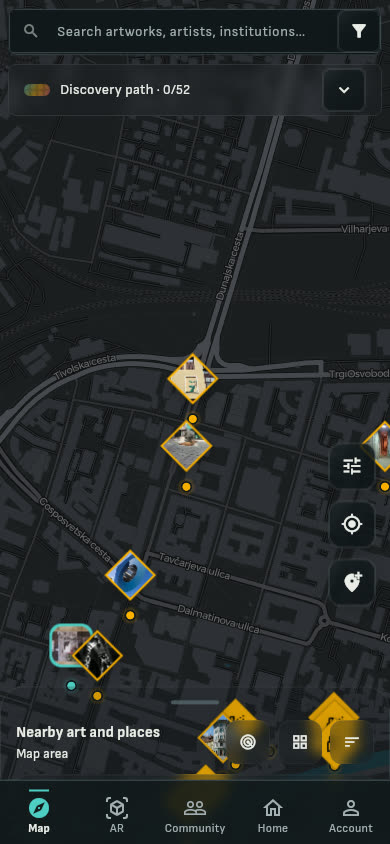
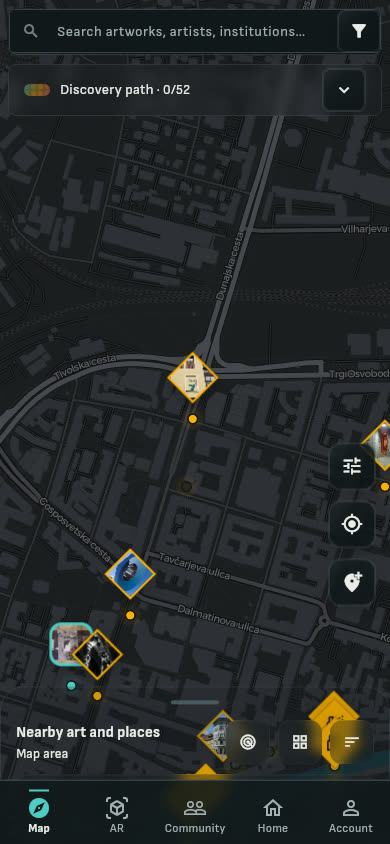
docs(evidence): refresh QA results on the review-fix head; note cold-thumbnail cover latency

diff --git a/docs/design/PRODUCT_V5_SPATIAL_SYSTEM.md b/docs/design/PRODUCT_V5_SPATIAL_SYSTEM.md
@@ -456,5 +456,11 @@ See `docs/evidence/product-v5-spatial/README.md`.
   services / system processes, not to the app. The stack of the original crash is
   entirely engine/plugin code and the screen swap itself is not new, but this
   remains an observation, not a proven pre-existing defect and not a fix.
+* The first request for a thumbnail size the media host has not generated yet can
+  take seconds, so a street-level cover can arrive late (the canonical marker is
+  always there meanwhile). Browser QA saw this as intermittent "no covers yet"
+  failures right after the 120/250/330 px sizes were first requested, none once
+  they were cached; the QA now polls up to 12 s and records the first-cover
+  latency instead of guessing a fixed wait.
 * The wide layout shows two attribution controls on native Android (the plugin's
   own button and the app's glass one); this predates 5B and was left alone.
